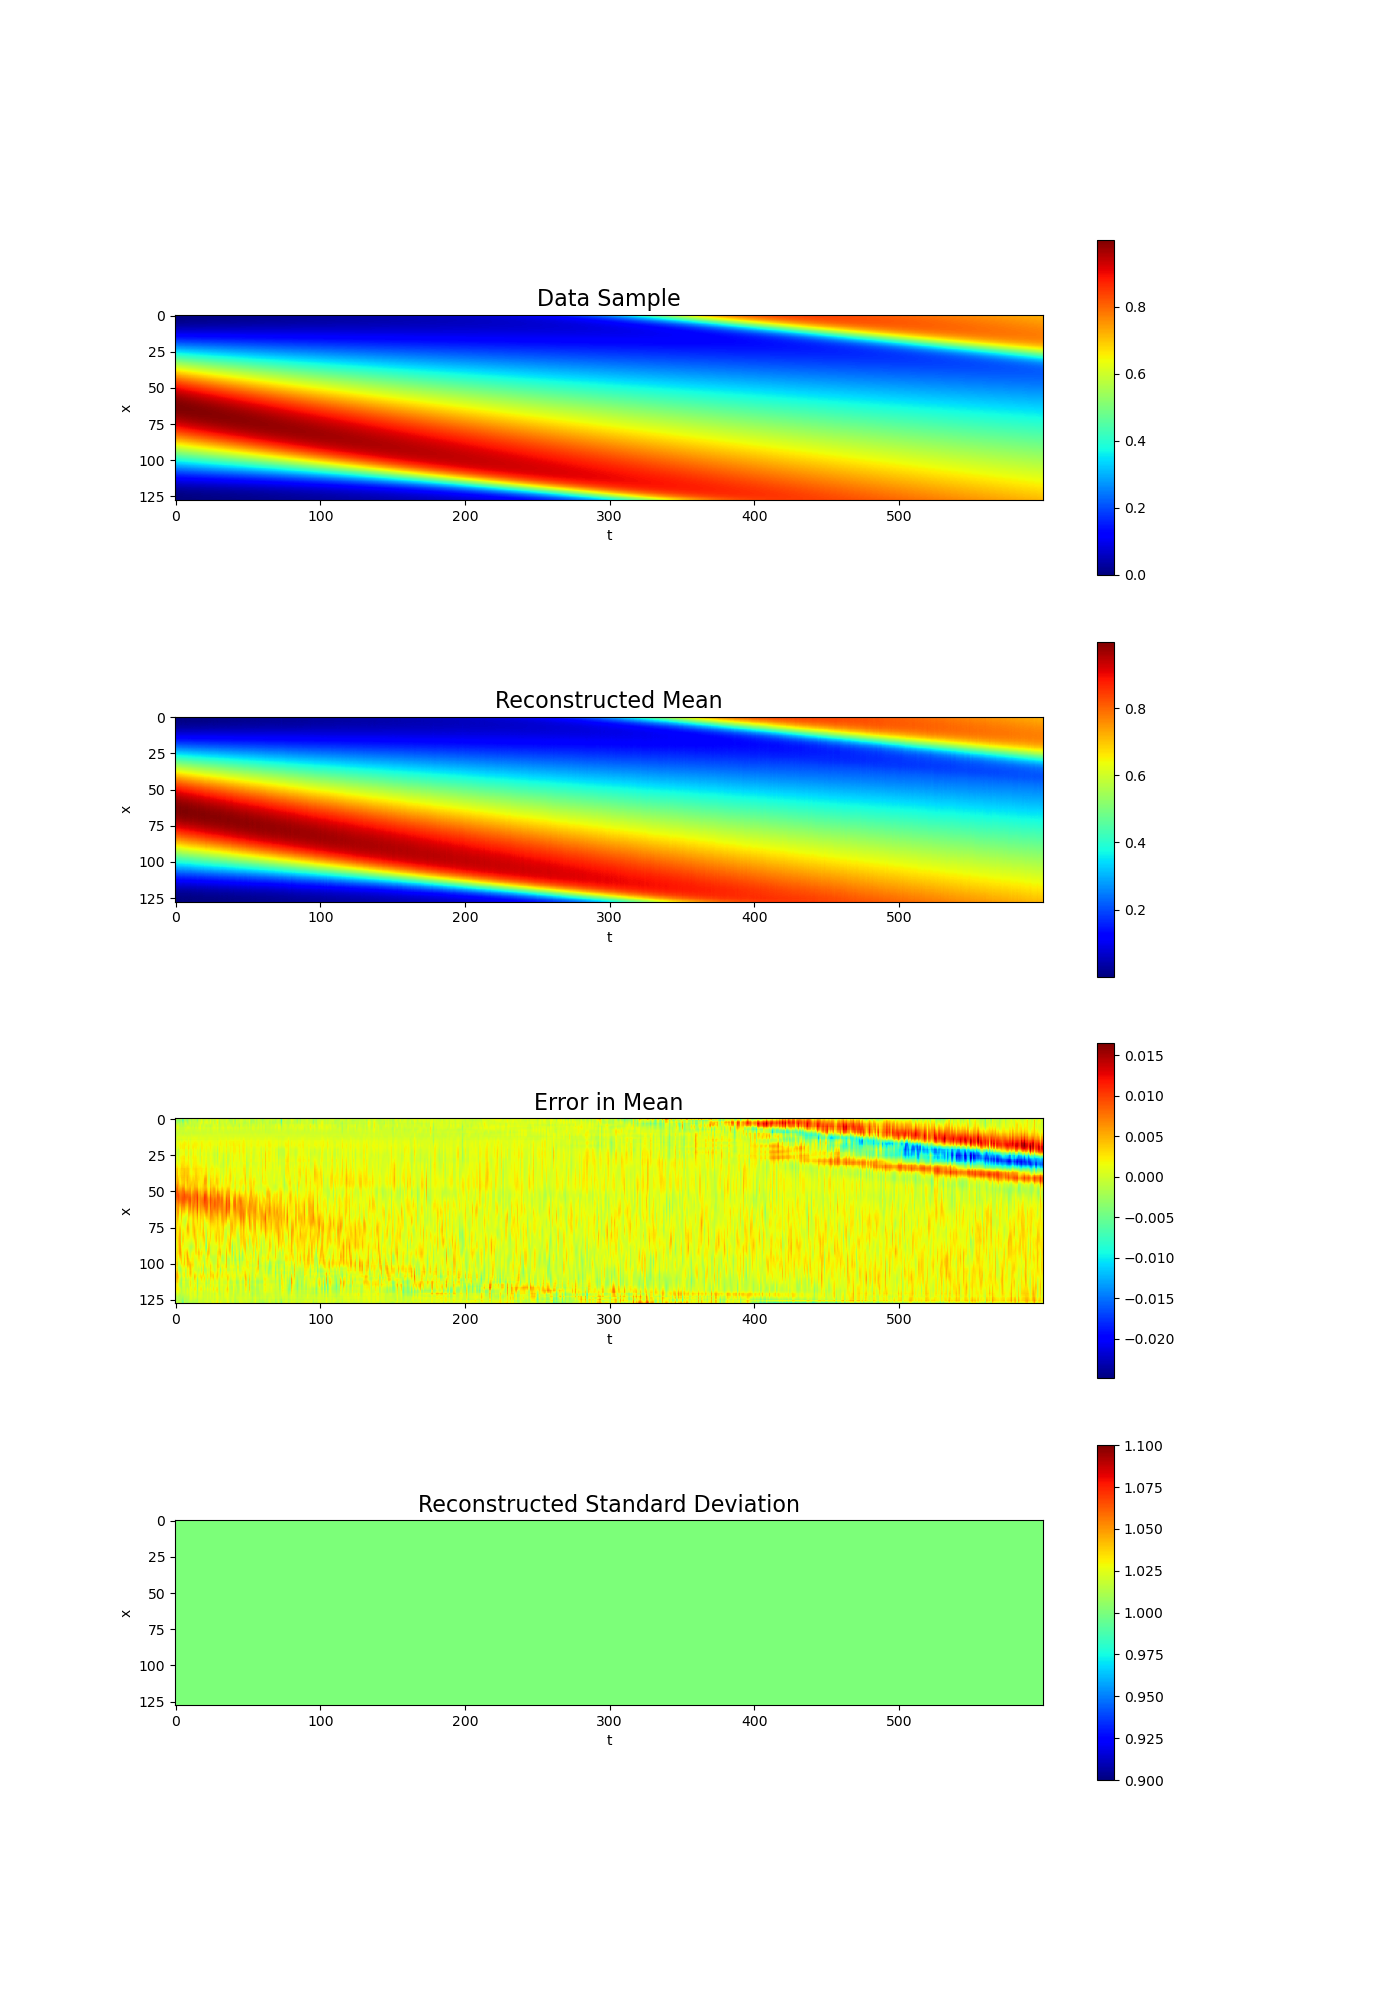
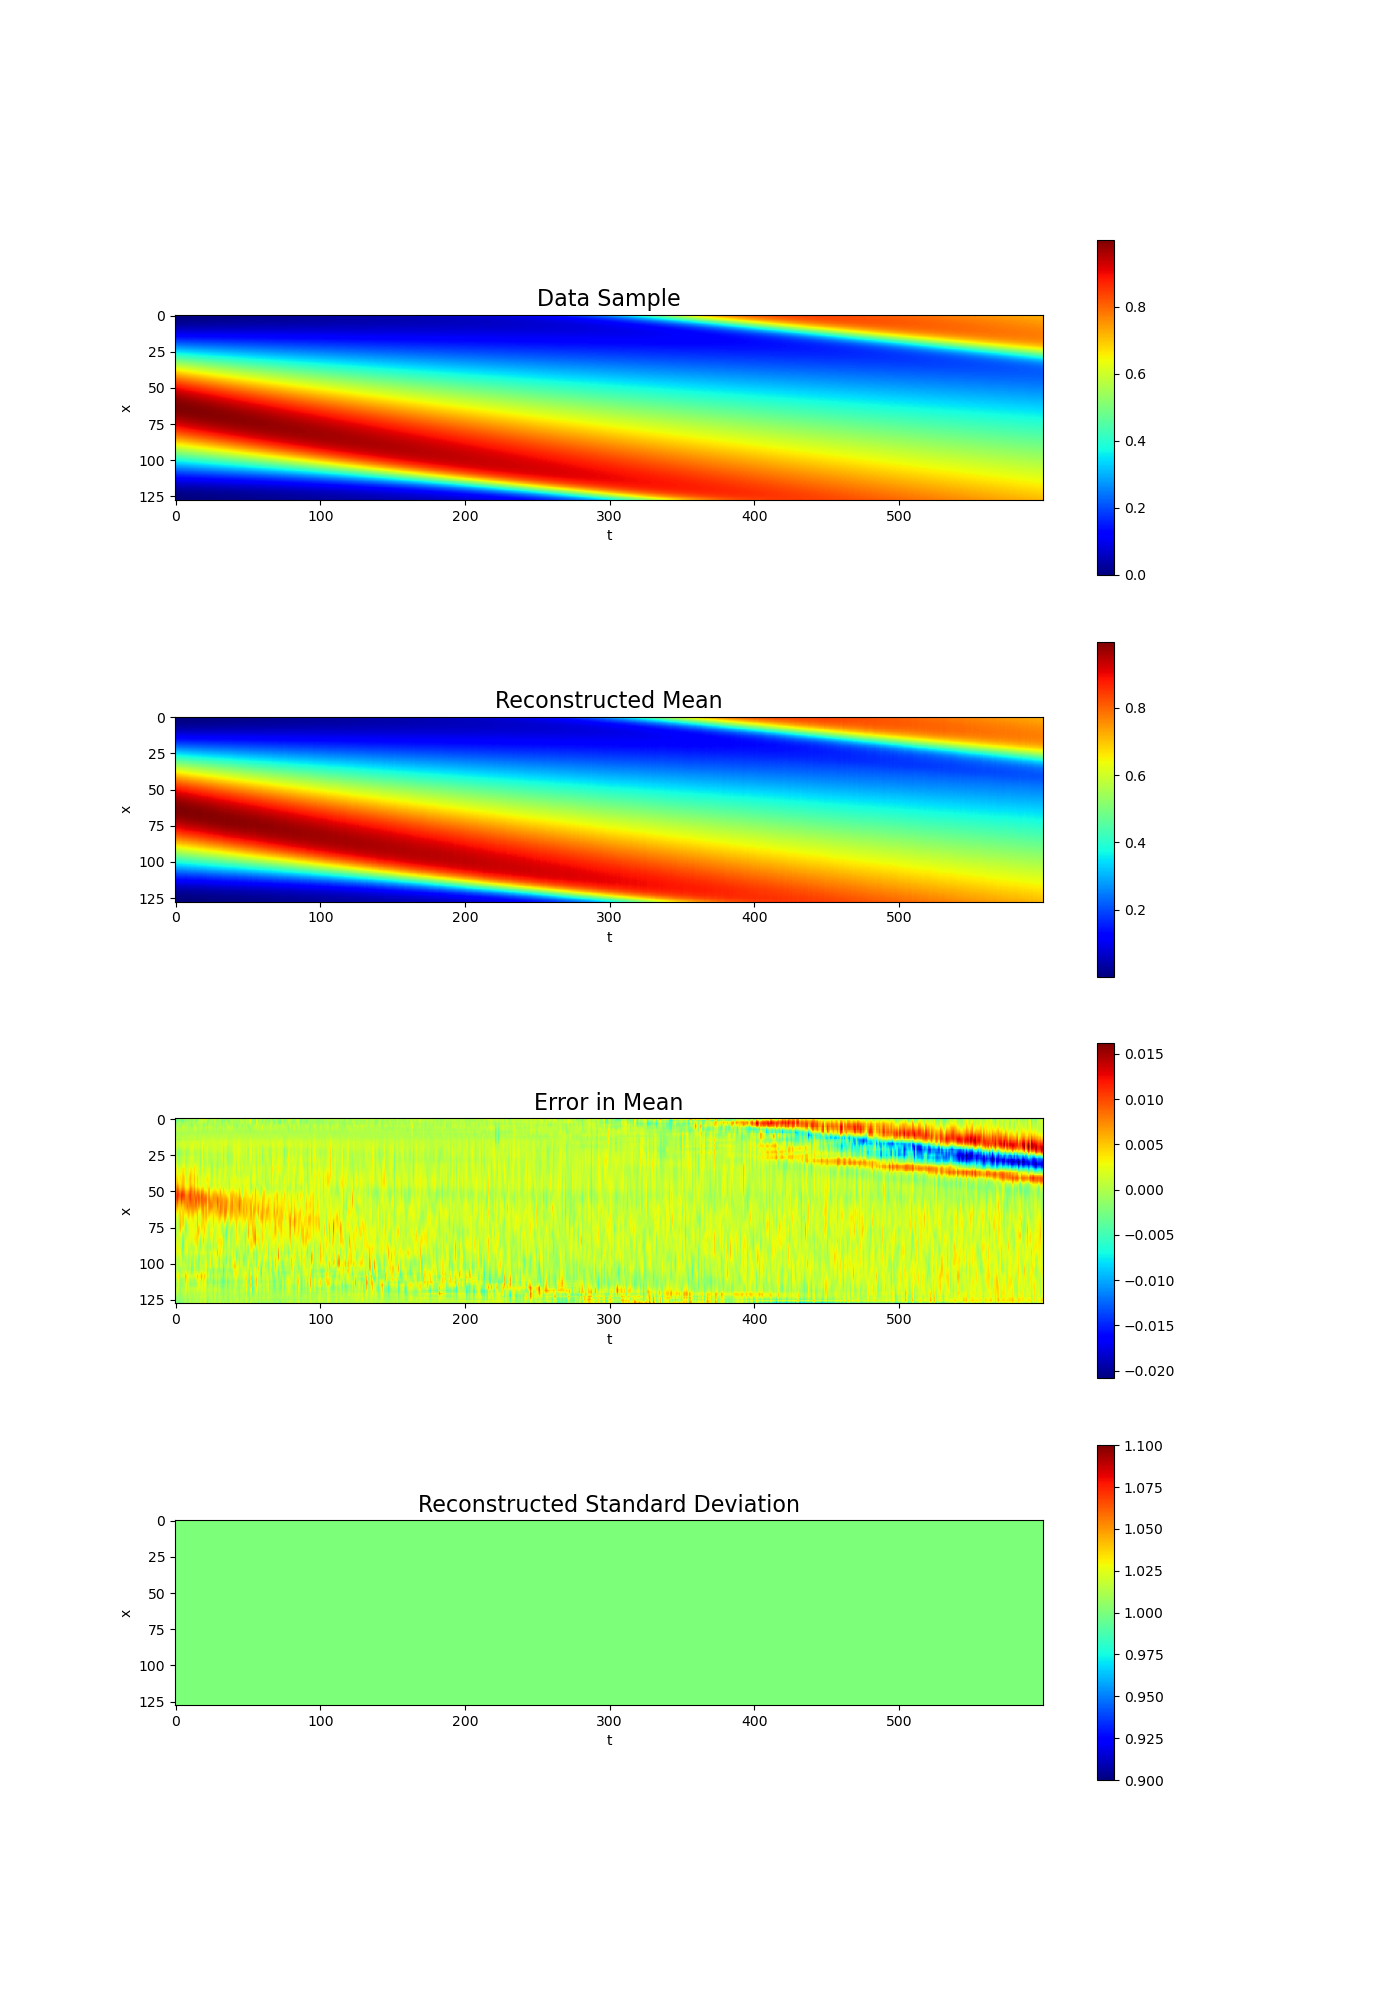
Improved latent post processing figures to show errors

Changed region(s): [[0.1229, 0.558, 0.7679, 0.651], [0.7986, 0.527, 0.8293, 0.682]]

diff --git a/config_train.py b/config_train.py
@@ -42,7 +42,7 @@ def lr_schedule_1(epoch):
 # dataset and save paths ----------------------------------------------------------------------------------------------
 n_latent = 32              # latent dimension
 n_ic = 1                 # number of initial conditions (for dataset)
-nt = 400                 # number of time snapshots to train on
+nt = 100                 # number of time snapshots to train on
 #arch = 'dilated-denseblock'  # architecture specifying 'encoder-decoder' type (not working)
 
 train_data_dir_u = 'data/Burgers1D/burgers1d_ic_{}.hdf5'.format(n_ic)   # training data directory
@@ -54,6 +54,7 @@ save_dir = './Burgers1D/ic_{}/n{}'.format(n_ic,n_latent) # specify a folder wher
 continue_training = False           # specify if training is continued from a saved model
 tr = 4
 vae_path = './Burgers1D/ic_{}/n{}/AE_{}/AE_{}.pth'.format(n_ic,n_latent,tr,tr)       # the path to the previously saved model                
+continue_path = vae_path
 save_interval = None
 # architecture parameters ---------------------------------------------------------------------------------------------
 

diff --git a/vae_load.py b/vae_load.py
@@ -122,18 +122,26 @@ for trial in trials:
     if save_figs:
         plt.savefig(os.path.join(rom_load_path, 'initial_forward_{}.png'.format(trial)))
     plt.figure(1000)
-    plt.subplot(2,1,1)
+    plt.subplot(3,1,1)
     plt.imshow(np.transpose(muz.detach().numpy()))
     plt.xlabel('t')
     plt.ylabel('z')
     plt.plot([ntrain0,ntrain0], [0,n_latent], 'k--', linewidth=3)
-    #plt.colorbar()
-    plt.subplot(2,1,2)
+    plt.colorbar()
+    plt.subplot(3,1,2)
     plt.imshow(np.transpose(muz_F.detach().numpy()))
     plt.xlabel('t')
     plt.ylabel('z')
     plt.plot([ntrain0,ntrain0], [0,n_latent], 'k--', linewidth=3)
-    #plt.colorbar()
+    plt.colorbar()
+    plt.subplot(3,1,3)
+    abs_error = (muz-muz_F)
+    plt.imshow(np.transpose(abs_error.detach().numpy()))
+    plt.xlabel('t')
+    plt.ylabel('absolute error')
+    plt.plot([ntrain0,ntrain0], [0,n_latent], 'k--', linewidth=3)
+    plt.colorbar()
+    
     if save_figs:
         plt.savefig(os.path.join(rom_load_path, 'rom_pred_{}.png'.format(trial)))
     
